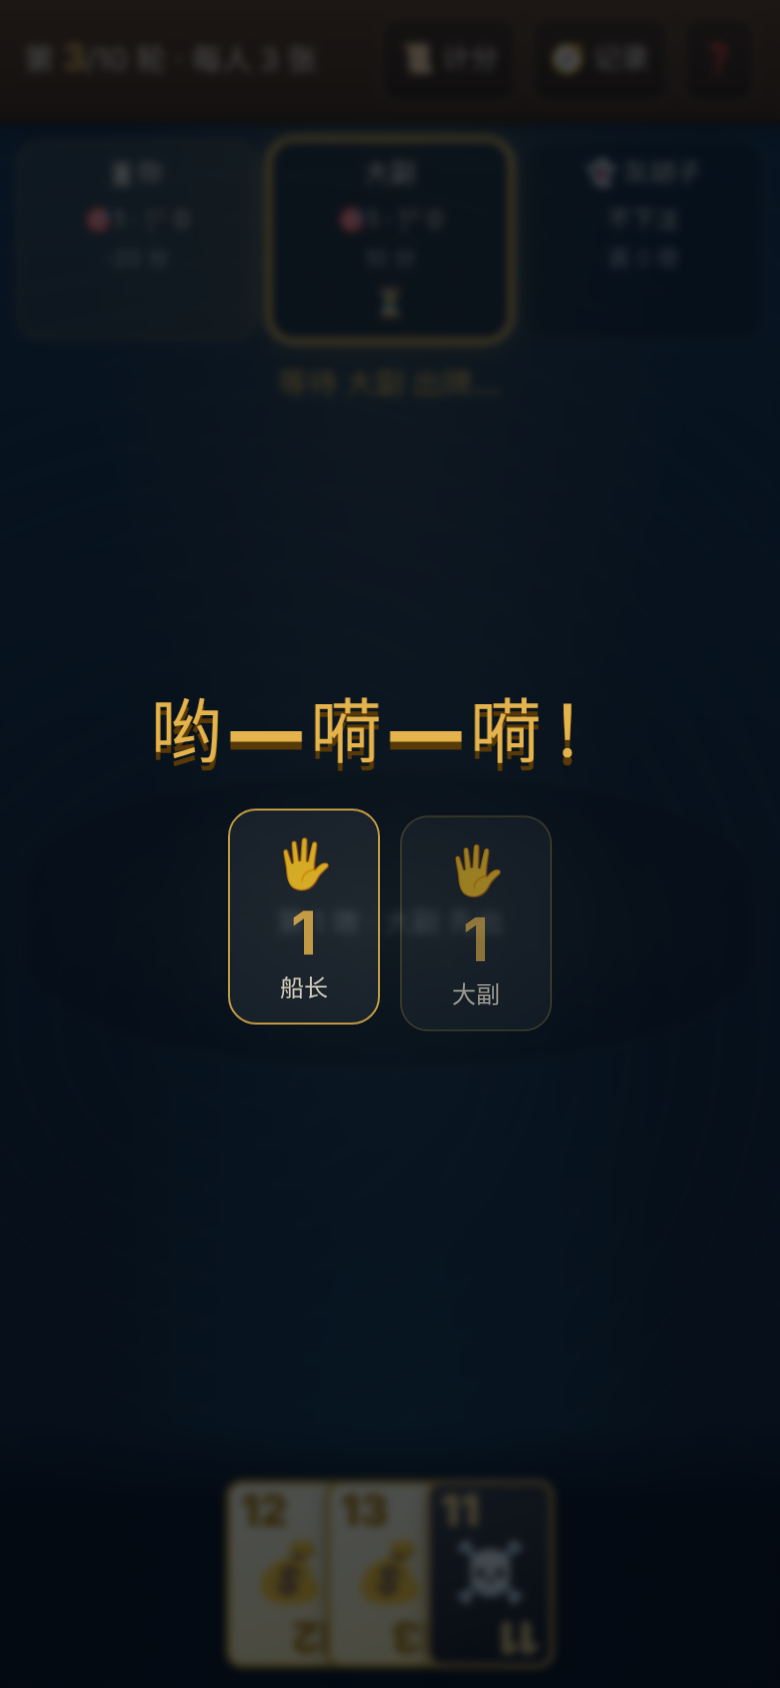
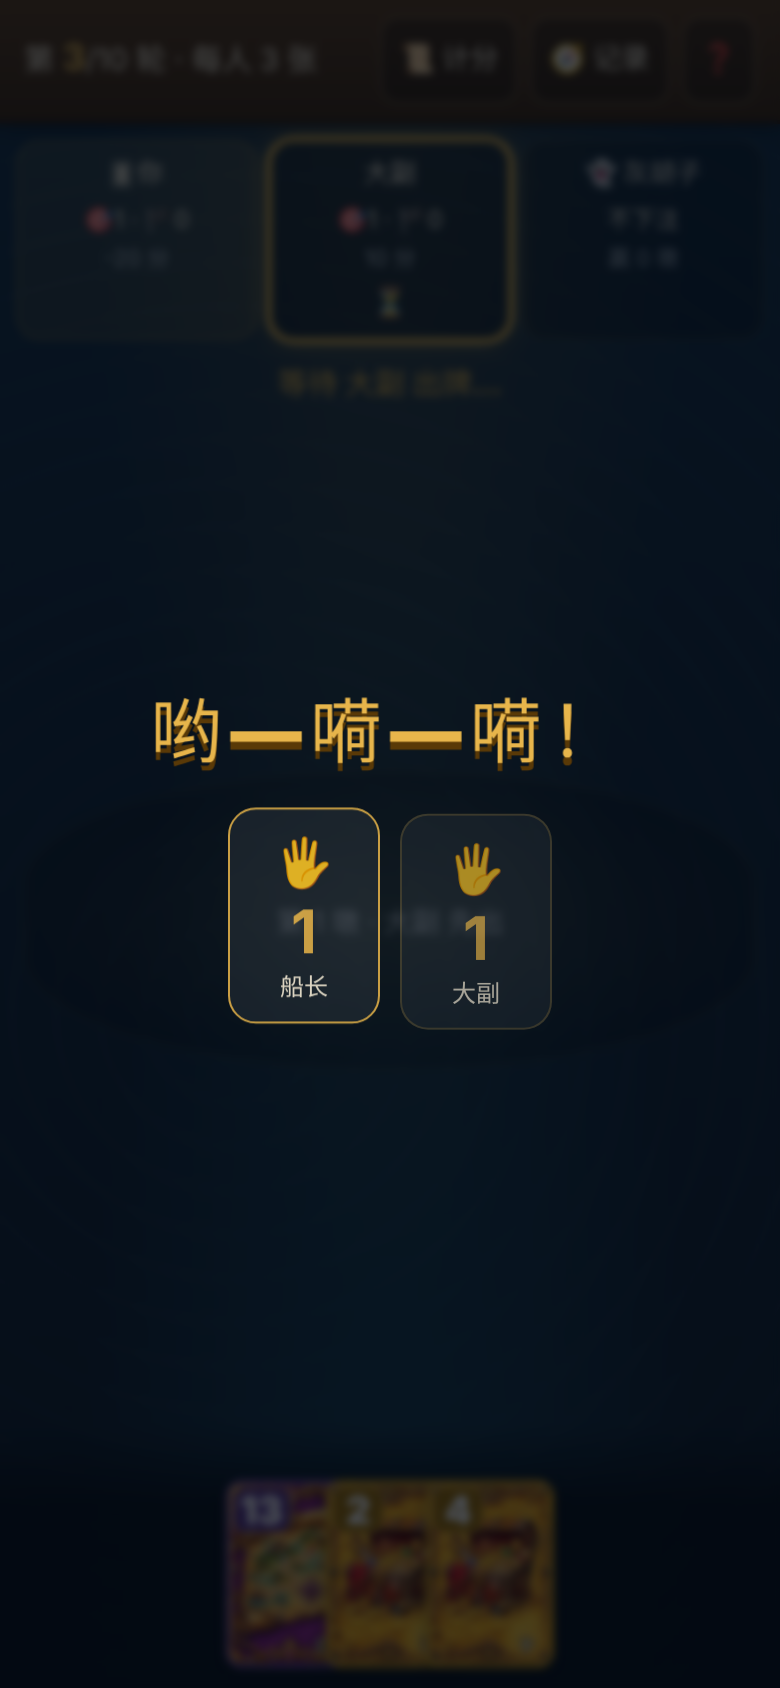
骷髅王：接入 Codex 卡牌美术（69 张 + 标志，压缩为 200×290 webp），数字牌加醒目数字角标
Claude-Session: https://claude.ai/code/session_01D4Ygyof1YC3PxstBDzFQZk

diff --git a/apps/web/src/sk/skull-king.css b/apps/web/src/sk/skull-king.css
@@ -229,3 +229,8 @@ button.sk-card { cursor: pointer; }
 .sk-rank li span { width: 22px; color: var(--sk-gold); font-weight: 900; }
 .sk-rank li b { margin-left: auto; }
 .sk-rank li.me { outline: 1px solid var(--sk-gold); }
+.sk-card .sk-badge { position: absolute; top: 2px; left: 2px; min-width: calc(var(--w) * 0.38); padding: 1px 3px; border-radius: 6px; font-weight: 900; font-size: calc(var(--w) * 0.3); line-height: 1.05; text-align: center; color: #fff; background: rgba(20, 12, 4, 0.82); box-shadow: 0 0 0 1px rgba(232, 182, 76, 0.7); }
+.sk-card.suit-green .sk-badge { background: #1f6b2a; }
+.sk-card.suit-purple .sk-badge { background: #55308a; }
+.sk-card.suit-yellow .sk-badge { background: #9a6a00; }
+.sk-card.suit-black .sk-badge { background: #111; color: #f3d27a; }

diff --git a/apps/web/src/sk/SkullKing.tsx b/apps/web/src/sk/SkullKing.tsx
@@ -64,6 +64,7 @@ export function SKCard({ id, as, size = "md", selected, dim, onClick, testid }: 
         </>
       )}
       {art && <img className="sk-art" src={`/assets/skullking/cards/${c.key}.webp`} alt="" onError={() => setArt(false)} />}
+      {art && c.kind === "suit" && <span className="sk-badge">{c.n}</span>}
       {as && <span className={`sk-as ${as}`}>{as === "pirate" ? "当海盗" : "当逃跑"}</span>}
     </El>
   );
